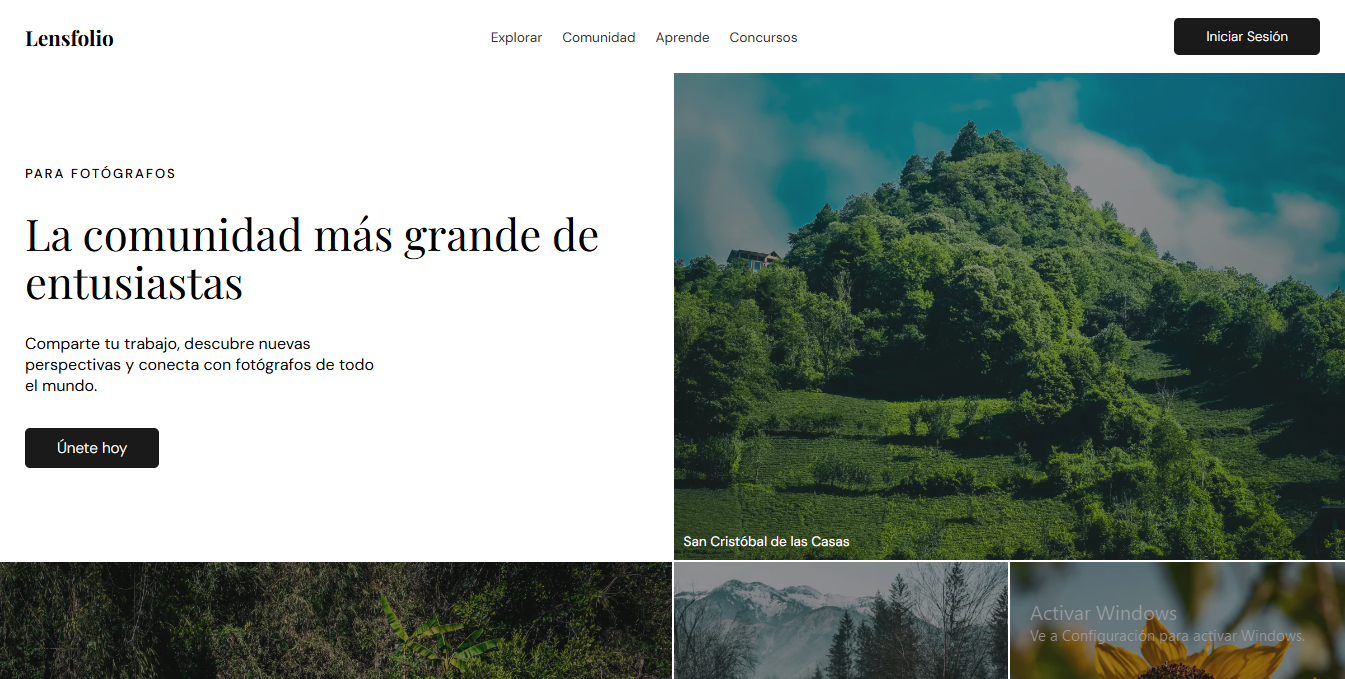
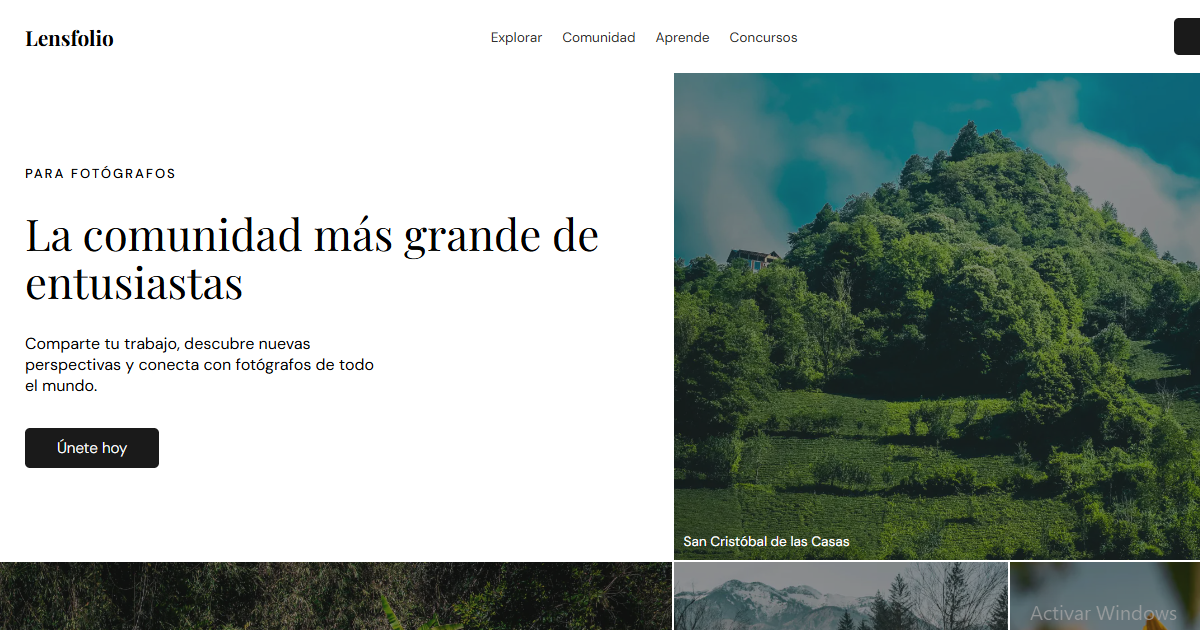
Cambios en el nombre de las variables y otras cosas mas

diff --git a/001/css/style.css b/001/css/style.css
@@ -2,34 +2,40 @@
     margin: 0;
     padding: 0;
     box-sizing: border-box;
-    font-family: var(--font-family2);
+    font-family: var(--secundary-font);
 }
 
 :root {
-    --black-mode: #30302e;
-    --white-mode: #ffffff;
-    --color-bm: #777;
+    /* Typography */
+    --primary-font: 'Playfair Display';
+    --secundary-font: 'DM Sans';
+
+    /* Colors */
+    --primary-color: #ffffff;
+    --secundary-color: #30302e;
+
+    /* Color buttons */
     --bgcolor-btn: #1a1a1a;
     --bgcolor-btn-hover: #3f3f3d;
-    --font-family1: 'Playfair Display';
-    --font-family2: 'DM Sans';
+
+    /* Overlay for images */
     --overlay: #1a1a1a77;
+
+    /* Navigation bar color */
     --border-navbar: #1a1a1a5b;
-    --btn-menu: #fff0;
 }
 
 body{ 
-    background-color: var(--white-mode);
+    background-color: var(--primary-color);
     display: grid;
     place-content: center;
 }
 
 body::selection {
     background-color: var(--bgcolor-btn);
-    color: var(--white-mode);
+    color: var(--primary-color);
 }
 
-/* Max Width for this sections */
 .navbar, .hero, .offer, .community,
 .join, .latest-banner {
     max-width: 1400px;
@@ -46,13 +52,15 @@ body::selection {
     align-items: center;
     position: relative;
     padding: 18px 25px;
-    background-color: var(--white-mode);
+    background-color: var(--primary-color);
 }
 
 .navbar__logo {
     font-family: 'Playfair Display';
     font-weight: bold;
     font-size: 1.3rem;
+    text-decoration: none;
+    color: var(--bgcolor-btn);
 }
 
 .navbar__links {
@@ -67,13 +75,14 @@ body::selection {
     font-weight: 300;
     background-color: var(--bgcolor-btn);
     text-decoration: none;
-    color: var(--white-mode);
+    color: var(--primary-color);
     border-radius: 5px;
     margin-right: 10px;
     font-size: 0.95rem;
     border: none;
     text-wrap: nowrap;
     padding: 10px 32px;
+    transition: background-color 0.3s ease;
 }
 
 .navbar__btn-login {
@@ -89,7 +98,7 @@ body::selection {
 
 .btn-menu {
     display: flex;
-    background-color: var(--btn-menu);
+    background-color: inherit;
     border: none;
 }
 
@@ -100,7 +109,7 @@ body::selection {
 .navbar__list {
     list-style: none;
     display: none;
-    background-color: var(--white-mode);
+    background-color: var(--primary-color);
     position: absolute;
     z-index: 30;
     left: 0;
@@ -120,7 +129,7 @@ body::selection {
 
 .navbar__list a {
     text-decoration: none;
-    color: var(--black-mode);
+    color: var(--secundary-color);
     padding: 8px 10px;
     border-radius: 5px;
     font-size: 0.85rem;
@@ -162,7 +171,7 @@ body::selection {
 }
 
 .hero__title {
-    font-family: var(--font-family1);
+    font-family: var(--primary-font);
     font-weight: 400;
     font-size: clamp(2rem, 3.2vw, 3rem);
     line-height: 3rem;
@@ -207,7 +216,7 @@ body::selection {
 }
 
 .hero__image-place {
-    color: var(--white-mode);
+    color: var(--primary-color);
     font-size: 0.85rem;
     position: absolute;
     bottom: 0;
@@ -243,7 +252,7 @@ img {
 .community__info-title,
 .join__info-title,
 .latest-banner__title {
-    font-family: var(--font-family1);
+    font-family: var(--primary-font);
     font-size: clamp(1.6rem, 2.5vw, 2.2rem);
     font-weight: 400;
 }
@@ -353,7 +362,7 @@ img {
 }
 
 .join__info-number span {
-    font-family: var(--font-family1);
+    font-family: var(--primary-font);
     font-size: 2.2rem;
 }
 
@@ -372,7 +381,7 @@ img {
 }
 
 .join__form-title {
-    font-family: var(--font-family1);
+    font-family: var(--primary-font);
     font-size: 1.5rem;
     font-weight: 500;
     margin-bottom: 20px;
@@ -459,7 +468,7 @@ img {
 }
 
 .footer__logo {
-    font-family: var(--font-family1);
+    font-family: var(--primary-font);
     font-weight: bold;
 }
 

diff --git a/001/index.html b/001/index.html
@@ -8,7 +8,7 @@
     <meta name="description" content="Lensfolio es la comunidad más grande de fotógrafos. Comparte tu trabajo, participa en retos semanales y conecta con entusiastas de todo el mundo.">
     <meta name="author" content="González Jeremías">
     <meta name="robots" content="index, follow">
-    <link rel="canonical" href="https://jeremiasg18.github.io/100webschallenge/001/" />
+    <link rel="canonical" href="https://jeremiasg18.github.io/100webschallenge/001/">
     
     <!-- OpenGraph Metatags -->
     <meta property="og:type" content="website">
@@ -16,6 +16,9 @@
     <meta property="og:url" content="https://jeremiasg18.github.io/100webschallenge/001/">
     <meta property="og:description" content="Lensfolio es la comunidad más grande de fotógrafos. Comparte tu trabajo, participa en retos semanales y conecta con entusiastas de todo el mundo.">
     <meta property="og:image" content="https://jeremiasg18.github.io/100webschallenge/001/img/banner.png">
+    <meta property="og:image:width" content="1200">
+    <meta property="og:image:height" content="630">
+    <meta property="og:image:type" content="image/jpeg">
     
     <!-- Twitter Cards -->
     <meta name="twitter:card" content="summary_large_image">
@@ -44,7 +47,7 @@
     <!-- Header -->
     <header class="head">
         <nav class="navbar">
-            <span class="navbar__logo">Lensfolio</span>
+            <a href="/" class="navbar__logo">Lensfolio</a>
             <div class="navbar__links">
                 <a class="navbar__btn-login" href="#">Iniciar Sesión</a>
                 <button class="btn-menu" type="button">
@@ -195,12 +198,12 @@
             <div class="join__form">
                 <h3 class="join__form-title">¿Listo para unirte?</h3>
                 <form action="#">
-                    <label for="name">Nombre</label>
-                    <input type="text" name="name" id="name">
-                    <label for="lastname">Apellido</label>
-                    <input type="text" name="lastname" id="lastname">
+                    <label for="name">Nombre y Apellido</label>
+                    <input type="text" name="name" id="name" placeholder="Tu nombre y apellido" required>
+                    <label for="email">Correo</label>
+                    <input type="email" name="email" id="email" placeholder="Tu correo electronico" required>
                     <label for="password">Contraseña</label>
-                    <input type="password" name="password" id="password">
+                    <input type="password" name="password" id="password" placeholder="Tu contraseña" required>
                     <input type="submit" value="Crear Cuenta">
                 </form>
             </div>